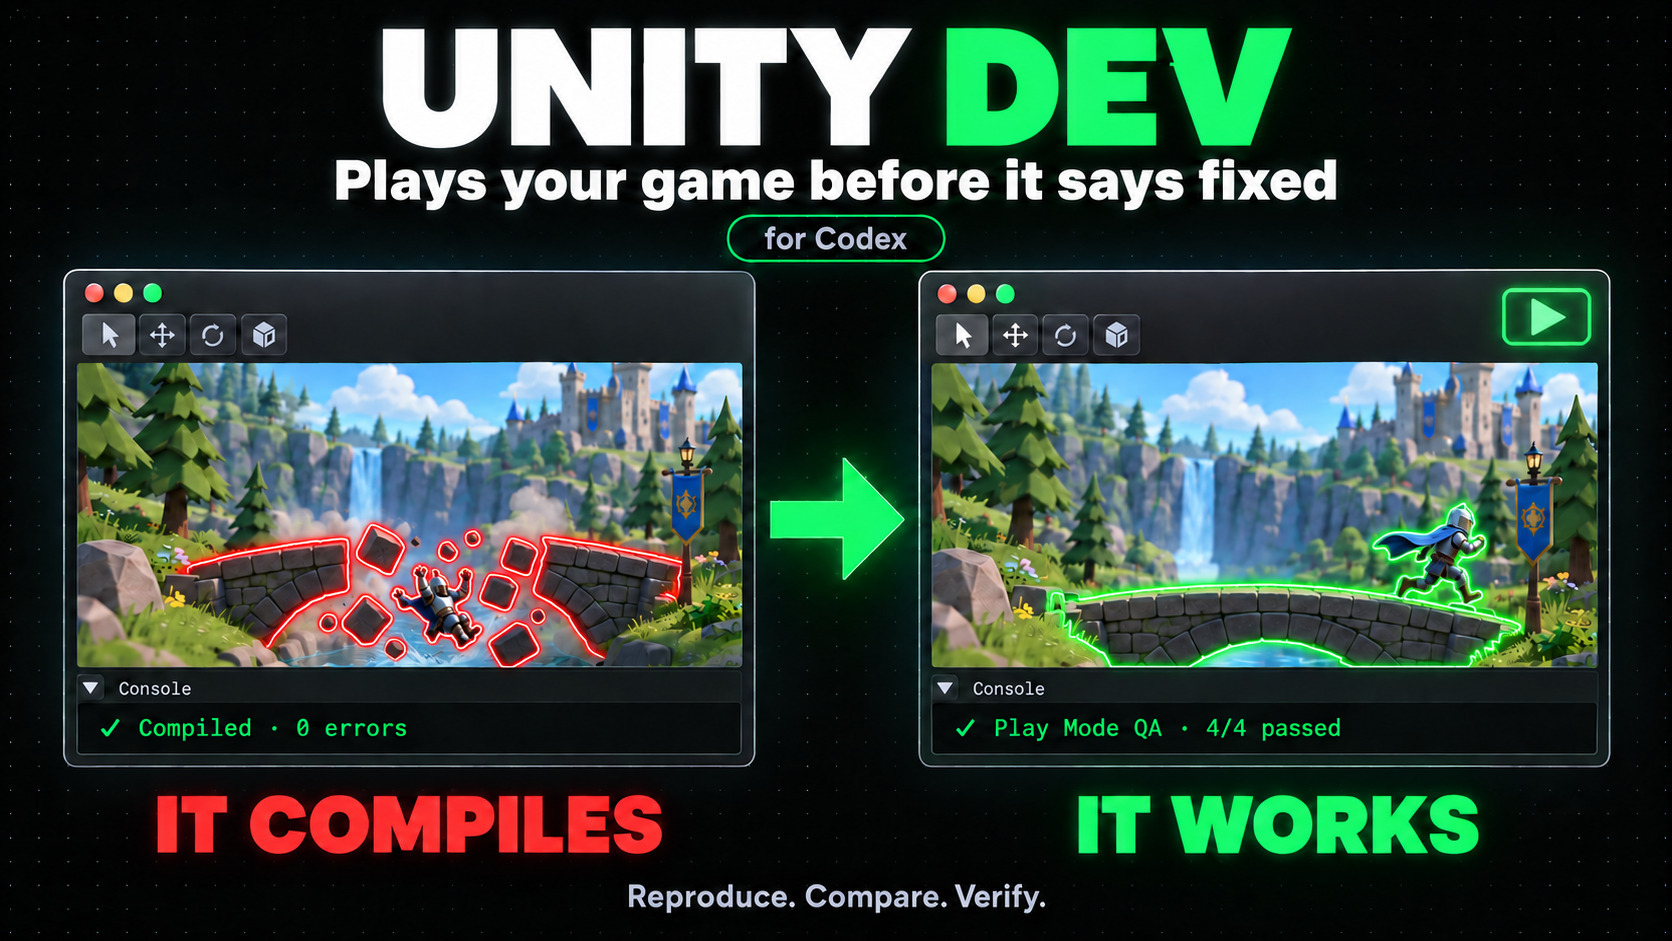
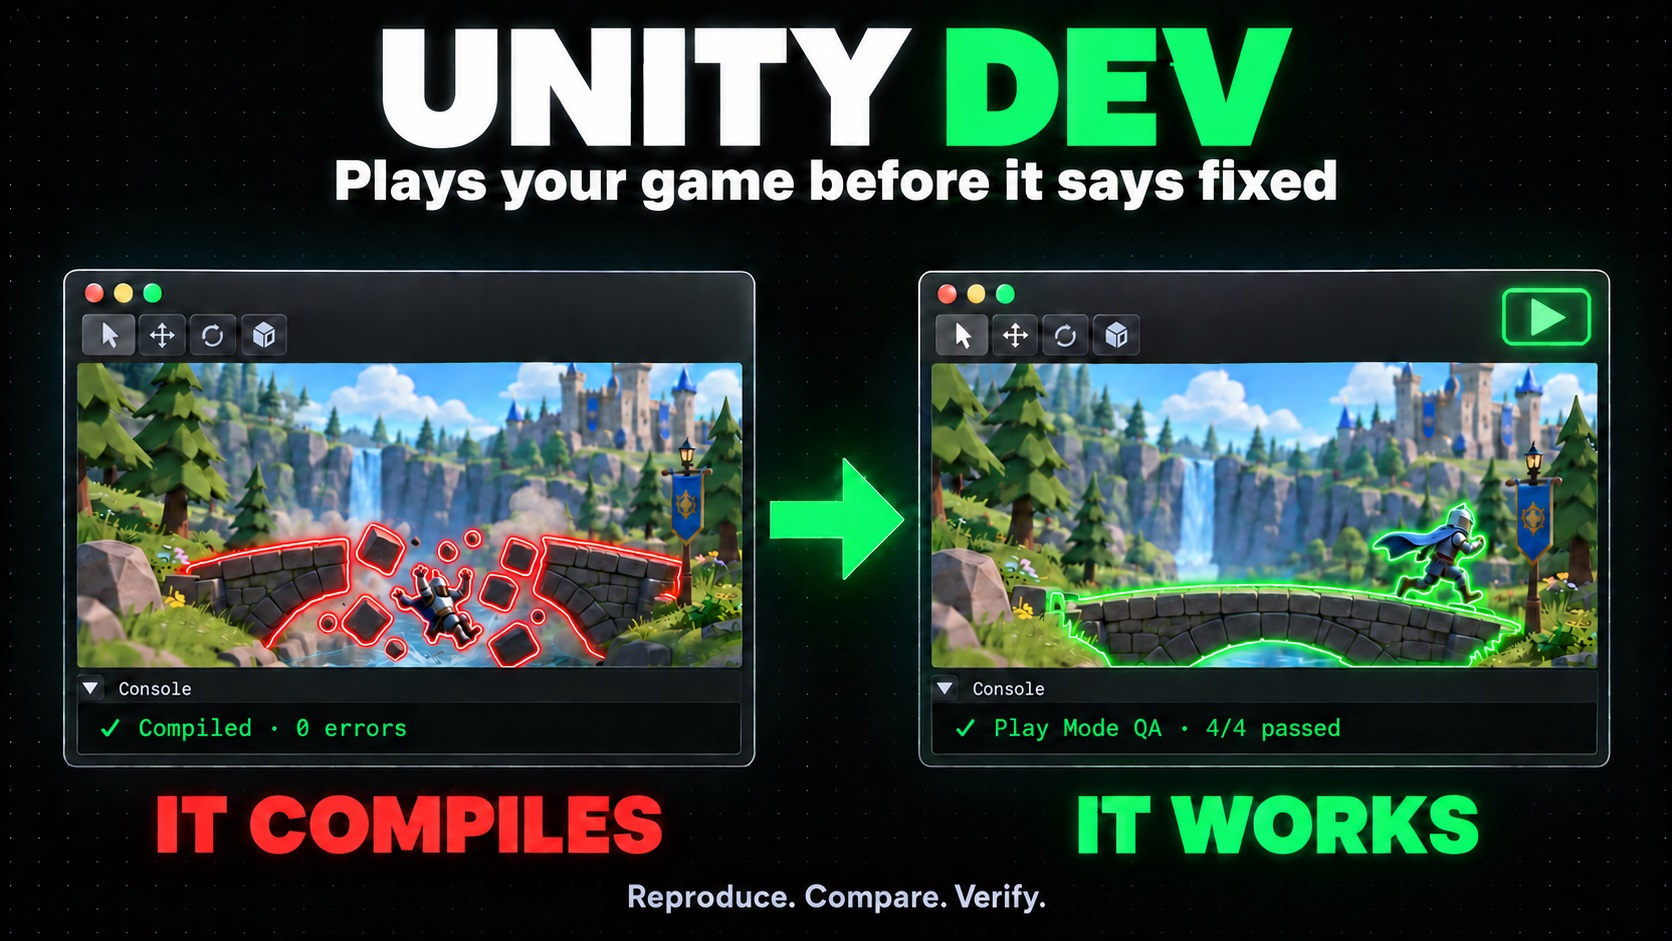
Remove Codex-specific badge from thumbnail

diff --git a/README.md b/README.md
@@ -1,6 +1,6 @@
 <div align="center">
 
-<img alt="Unity Dev for Codex and Claude Code: plays your game before it says fixed. It compiles (0 errors, yet the bridge collapses and the knight falls into the river) → it works (Play Mode QA 4/4 passed, the bridge holds and the knight runs across)." src="docs/media/thumbnail.jpg" width="100%">
+<img alt="Unity Dev: plays your game before it says fixed. It compiles (0 errors, yet the bridge collapses and the knight falls into the river) → it works (Play Mode QA 4/4 passed, the bridge holds and the knight runs across)." src="docs/media/thumbnail.jpg" width="100%">
 
 <br>
 
